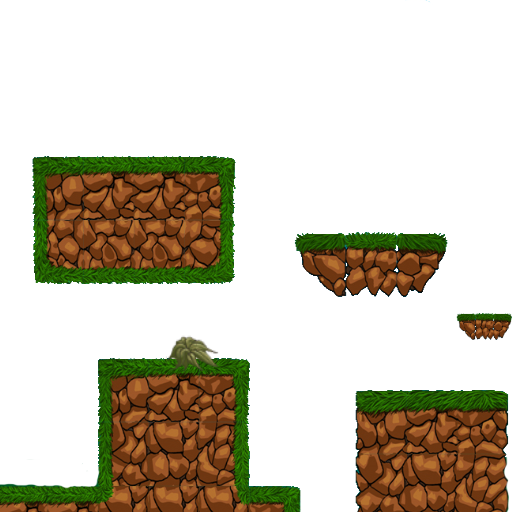
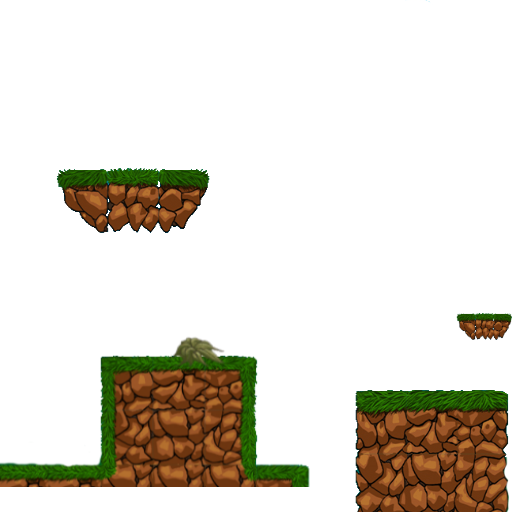
more updates

Changed region(s): [[0.0, 0.6562, 0.625, 1.0], [0.0625, 0.2812, 0.4688, 0.5625], [0.5625, 0.4375, 0.875, 0.5938]]

diff --git a/app/src/main/java/com/guillaumesoft/platformerc/Layer.java b/app/src/main/java/com/guillaumesoft/platformerc/Layer.java
@@ -1,114 +1,72 @@
 package com.guillaumesoft.platformerc;
 
-import com.badlogic.androidgames.framework.Game;
-import com.badlogic.androidgames.framework.gl.Camera2D;
 import com.badlogic.androidgames.framework.gl.SpriteBatcher;
 import com.badlogic.androidgames.framework.gl.Texture;
 import com.badlogic.androidgames.framework.gl.TextureRegion;
-import com.badlogic.androidgames.framework.impl.GLScreen;
 import com.badlogic.androidgames.framework.math.Vector2;
 
-import javax.microedition.khronos.opengles.GL10;
-
-//////////////////////////////////////////////////////////////////
-// October / 21/ 2014
-// Guillaume Swolfs
-// guillaumesoft
-// RatingSplashScreen class
-//////////////////////////////////////////////////////////////////
+/// <summary>
+/// This is a game component that implements IUpdateable.
+/// </summary>
 public class Layer
 {
-    /////////////////////////////////////////
-    // CLASS VARAIBLES
-    /////////////////////////////////////////
-    public Texture[] textures;
-    public TextureRegion[] texturesRegion;
+    public  Texture[] texture;
+    public  TextureRegion[] region;
 
-
-    /////////////////////////////////////////
-    // CLASS CONSTRUCTOR
-    /////////////////////////////////////////
-    public Layer()
+    public float GetScrollRate()
     {
-        textures = new Texture[3];
-        for (int i = 0; i < 3; ++i)
-        {
-            switch(i)
-            {
-                case 0:
-                    textures[i] = Assets.layer00;
-                    break;
-                case 1:
-                    textures[i] = Assets.layer10;
-                    break;
-                case 2:
-                    textures[i] = Assets.layer20;
-                    break;
-            }
-        }
+        return ScrollRate;
+    }
+    public void SetScrollRate(float value)
+    {
+        ScrollRate = value;
+    }
+    public float ScrollRate;
 
-        texturesRegion = new TextureRegion[3];
+    public Layer(String Layer, float scrollRate)
+    {
+        texture = new Texture[3];
+
         for (int i = 0; i < 3; ++i)
-        {
-            switch(i)
-            {
-                case 0:
-                    texturesRegion[i] = Assets.layer00Region;
-                    break;
-                case 1:
-                    texturesRegion[i] =  Assets.layer10Region;
-                    break;
-                case 2:
-                    texturesRegion[i] =  Assets.layer20Region;
-                    break;
-            }
-        }
+            texture[i] = new Texture(ScreenManager.game, Layer + i + ".png");
+
+        // Assumes each layer only has 3 segments.
+        region = new TextureRegion[3];
+
+        for (int i = 0; i < 3; ++i)
+            region[i] = new TextureRegion(texture[i] , 0, 0, 512, 512);
+
+        ScrollRate = scrollRate;
     }
 
-
-    public void update(float deltaTime)
+    public void Draw(SpriteBatcher spriteBatch, float cameraPosition)
     {
+        Vector2 xy = Vector2.Zero();
 
-    }
+        // Assume each segment is the same width.
+        int segmentWidth = 1920;//region[0].texture.width;
 
+        // Calculate which segments to draw and how much to offset them.
+        xy.x  = cameraPosition * ScrollRate;
 
-    public void Draw(SpriteBatcher batcher, float camposition)
-    {
+        int leftSegment = (int)Math.floor(xy.x / segmentWidth);
+        int rightSegment = leftSegment + 1;
 
-        batcher.beginBatch(textures[0]);
+        xy.x = (xy.x / segmentWidth - leftSegment) * -segmentWidth;
 
-           batcher.drawSprite(ScreenManager.GetCamera().position.x, ScreenManager.GetCamera().frustumHeight / 2, 1920, 1080, texturesRegion[0]);
+        xy.y = region[0].texture.height;
 
-           if(camposition > 0)
-           {
-               batcher.drawSprite(ScreenManager.GetCamera().position.x + 1920, ScreenManager.GetCamera().frustumHeight / 2, 1920, 1080, texturesRegion[0]);
-           }
+        spriteBatch.beginBatch(texture[leftSegment % region.length]);
 
-        batcher.endBatch();
+           spriteBatch.drawSprite(xy.x, xy.y, 1920, 1080, region[leftSegment % region.length]);
 
-        batcher.beginBatch(textures[1]);
+        spriteBatch.endBatch();
 
-           batcher.drawSprite(ScreenManager.GetCamera().position.x, ScreenManager.GetCamera().frustumHeight / 2, 1920, 1080, texturesRegion[1]);
+        spriteBatch.beginBatch(texture[rightSegment % region.length]);
 
-           if(camposition > 0)
-           {
-               batcher.drawSprite(ScreenManager.GetCamera().position.x + 1920, ScreenManager.GetCamera().frustumHeight / 2, 1920, 1080, texturesRegion[1]);
-           }
+           spriteBatch.drawSprite(xy.x + segmentWidth, xy.y, 1920, 1080, region[rightSegment % region.length]);
 
-        batcher.endBatch();
-
-        batcher.beginBatch( textures[2]);
-
-            batcher.drawSprite(ScreenManager.GetCamera().position.x, ScreenManager.GetCamera().frustumHeight / 2, 1920, 1080, texturesRegion[2]);
-
-           if(camposition > 0)
-           {
-              batcher.drawSprite(ScreenManager.GetCamera().position.x + 1920, ScreenManager.GetCamera().frustumHeight / 2, 1920, 1080, texturesRegion[2]);
-           }
-
-        batcher.endBatch();
-
+        spriteBatch.endBatch();
     }
 }
-
 

diff --git a/app/src/main/java/com/guillaumesoft/platformerc/Level.java b/app/src/main/java/com/guillaumesoft/platformerc/Level.java
@@ -101,8 +101,7 @@ public class Level implements Disposable
 
     public float cameraPosition;
 
-    private Layer0[] layers;
-    //private Layer layer;
+    private Layer[] layers;
 
     ////////////////////////////////////////////////////////////
     // CLASS FUNCTIONS
@@ -140,10 +139,10 @@ public class Level implements Disposable
         // GET THE SPRITE BATCH FORM THE GAME SCREEN
         this.spritebatcher = sp;
 
-        layers = new Layer0[3];
-        layers[0] = new Layer0(Assets.layer00, Assets.layer00Region, 0.01f);
-        layers[1] = new Layer0(Assets.layer10, Assets.layer10Region, 0.01f);
-        layers[2] = new Layer0(Assets.layer20, Assets.layer20Region, 0.01f);
+        layers = new Layer[3];
+        layers[0] = new Layer("layer0", 0.01f);
+        layers[1] = new Layer("layer1", 0.01f);
+        layers[2] = new Layer("layer2", 0.01f);
     }
 
     //////////////////////////////////////////////////////////
@@ -1306,14 +1305,20 @@ public class Level implements Disposable
         this.spritebatcher.endBatch();
     }
 
+    boolean iLoad = false;
     ////////////////////////////////////////////////////////////////////////////
     // DRAW THE GAME SCREENS
     ////////////////////////////////////////////////////////////////////////////
     public void Draw()
     {
+        if(iLoad == false)
+        {
+            layers[0] = new Layer("layer0", 0.01f);
+            layers[1] = new Layer("layer1", 0.0f);
+            layers[2] = new Layer("layer2", 0.0f);
 
-       //for (int i = 0; i <= 2; ++i)
-           // layers[0].Draw(this.spritebatcher, cameraPosition);
+            iLoad = true;
+        }
 
         for (int i = 0; i <= 2; ++i)
             layers[i].Draw(this.spritebatcher, cameraPosition);

diff --git a/app/src/main/java/com/guillaumesoft/platformerc/ScreenManager.java b/app/src/main/java/com/guillaumesoft/platformerc/ScreenManager.java
@@ -3,6 +3,7 @@ package com.guillaumesoft.platformerc;
 import android.view.Display;
 
 import com.badlogic.androidgames.framework.gl.Camera2D;
+import com.badlogic.androidgames.framework.impl.GLGame;
 import com.badlogic.androidgames.framework.math.Vector2;
 
 import tv.ouya.console.api.OuyaController;
@@ -45,5 +46,5 @@ public abstract class ScreenManager
     // GET AND SET GAME CONTROLLER ID
     public static OuyaController currentInput;
 
-
+    public static GLGame game;
 }

diff --git a/app/src/main/java/com/guillaumesoft/platformerc/Platformer.java b/app/src/main/java/com/guillaumesoft/platformerc/Platformer.java
@@ -52,7 +52,7 @@ public class Platformer extends GLGame
             firstTimeCreate = false;
 
             // CREATE A STATIC CONTEXT FOR THE GAME
-            //ScreenManager.game = this;
+            ScreenManager.game = this;
 
             WindowManager wm = (WindowManager) this.getSystemService(Context.WINDOW_SERVICE);
             ScreenManager.SetDisplay(wm.getDefaultDisplay());
